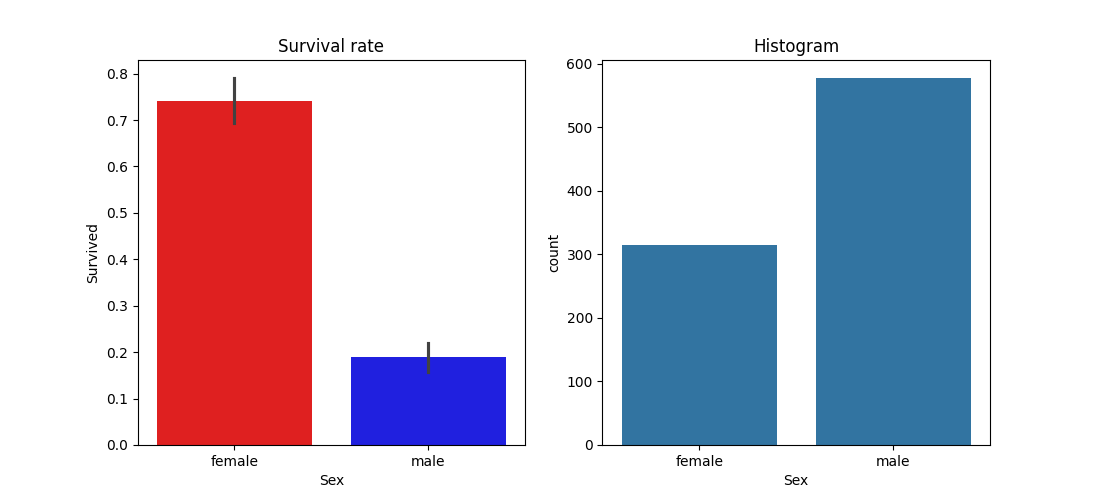
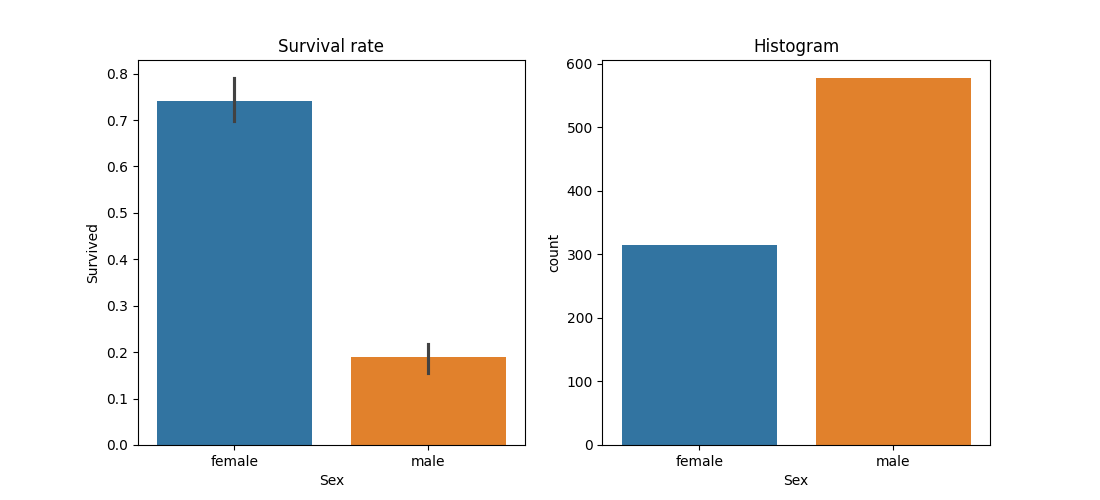
Random forest

Changed region(s): [[0.1236, 0.18, 0.4636, 0.9], [0.7418, 0.15, 0.8964, 0.9]]

diff --git a/Random Forests/main.py b/Random Forests/main.py
@@ -2,6 +2,12 @@ from fastai.imports import *
 import pandas as pd
 import os
 import seaborn as sns
+from numpy import random
+from sklearn.model_selection import train_test_split
+from sklearn.metrics import mean_absolute_error
+from sklearn.tree import DecisionTreeClassifier, export_graphviz
+import graphviz
+from sklearn.ensemble import RandomForestClassifier
 
 np.set_printoptions(linewidth=130)
 
@@ -41,7 +47,154 @@ palette=['red', 'blue', 'green', 'purple']
 fig,axs = plt.subplots(1,2, figsize=(11,5))
 
 # Barplot and countplot of the survival rate depending on the sex
-sns.barplot(data=df, y=dep, x="Sex", ax=axs[0], palette=palette).set(title="Survival rate")
-sns.countplot(data=df, x="Sex", ax=axs[1]).set(title="Histogram");
+sns.barplot(data=df, y=dep, x="Sex", ax=axs[0], hue="Sex").set(title="Survival rate")
+sns.countplot(data=df, x="Sex", ax=axs[1], hue="Sex").set(title="Histogram");
 
-plt.savefig("plot.png")
+# Save the plot
+# plt.savefig("plot.png")
+
+#-------------- Binary Split --------------#
+
+# Split the data into training and validation
+random.seed(42)
+trn_df,val_df = train_test_split(df, test_size=0.25)
+
+# Replace the categorical variables with their codes to better manipulate them
+trn_df[cats] = trn_df[cats].apply(lambda x: x.cat.codes)
+val_df[cats] = val_df[cats].apply(lambda x: x.cat.codes)
+
+# Creates the xs and y, which are the dependent and independent variables
+def xs_y(df):
+    xs = df[cats+conts].copy()
+    return xs,df[dep] if dep in df else None
+
+# Assigns the xs and y to the training and validation data
+trn_xs,trn_y = xs_y(trn_df)
+val_xs,val_y = xs_y(val_df)
+
+# Extremely simple model, where all the women survive and all the men die
+preds = val_xs.Sex==0
+
+# Gets the mean absolute error to test our simple model
+mae = mean_absolute_error(val_y, preds)
+
+# Some more graphs
+df_fare = trn_df[trn_df.LogFare>0]
+fig,axs = plt.subplots(1,2, figsize=(11,5))
+sns.boxenplot(data=df_fare, x=dep, y="LogFare", hue="Survived", ax=axs[0])
+sns.kdeplot(data=df_fare, x="LogFare", ax=axs[1])
+# plt.savefig("plot2.png")
+
+# Considering the observations, people with a higher fare are more likely to survive
+preds = val_xs.LogFare>2.7
+
+# Gets the mean absolute error to test our simple model
+mae = mean_absolute_error(val_y, preds)
+
+# Calculates the score for one side of the split
+def _side_score(side, y):
+    tot = side.sum()
+    if tot<=1: 
+        return 0
+    return y[side].std()*tot
+
+# Calculates the score for the split, called impurity
+def score(col, y, split):
+    lhs = col<=split
+    return (_side_score(lhs,y) + _side_score(~lhs,y))/len(y)
+
+# score = score(trn_xs["Sex"], trn_y, 0.5)
+# score = score(trn_xs["LogFare"], trn_y, 2.7)
+
+# Let's try to find the best split for any variable
+
+# Gets the unique values of the variable age
+nm = "Age"
+col = trn_xs[nm]
+unq = col.unique()
+unq.sort()
+
+# Calculates the best split for the variable age
+scores = np.array([score(col, trn_y, o) for o in unq if not np.isnan(o)])
+bestsplit = unq[scores.argmin()]
+
+# Calculates the best split for any column
+def min_col(df, nm):
+    col = df[nm]
+    y = df[dep]
+    unq = col.dropna().unique()
+    unq.sort()
+    scores = np.array([score(col, y, o) for o in unq if not np.isnan(o)])
+    idx = scores.argmin()
+    return unq[idx], scores[idx]
+
+# Calculates the best split for all the columns
+# cols = cats+conts
+# cols_scores = { nm:min_col(trn_df, nm) for nm in cols}
+
+#-------------- Decision Tree --------------#
+
+# Calculates the best split for all the columns
+# cols = cats+conts
+# cols_scores = { nm:min_col(trn_df, nm) for nm in cols }
+
+# # Considering that Sex is the best first split, we can remove it from the list and split the data in two
+# cols.remove('Sex')
+# ismale = trn_df.Sex == 1
+# males, females = trn_df[ismale], trn_df[~ismale]
+
+# # We calculate the best split for both males and females and so on, we create a decision tree
+# cols_scores_males = { nm:min_col(males, nm) for nm in cols }
+# cols_scores_females = { nm:min_col(females, nm) for nm in cols }
+
+# Let's automate the process of creating the decision tree
+m = DecisionTreeClassifier(max_leaf_nodes=4).fit(trn_xs, trn_y)
+
+# Draw the decision tree
+def draw_tree(t, df, size=10, ratio=0.6, precision=4, **kwargs):
+    s=export_graphviz(t, out_file="bigger_tree.dot", feature_names=df.columns, filled=True, rounded=True,
+                      special_characters=True, rotate=False, precision=precision, **kwargs)
+    return graphviz.Source(re.sub('Tree {', f'Tree {{ size={size}; ratio={ratio}', s))
+
+# draw_tree(m, trn_xs, size=10)
+
+# Another measure of impurity, used to create the above decision tree
+def gini(cond):
+    act = df.loc[cond, dep]
+    return 1 - act.mean()**2 - (1-act).mean()**2
+
+# Calculates the mean absolute error for the decision tree
+mae = mean_absolute_error(val_y, m.predict(val_xs))
+
+# Let's try to create a bigger tree
+m = DecisionTreeClassifier(min_samples_leaf=50)
+m.fit(trn_xs, trn_y)
+# draw_tree(m, trn_xs, size=12)
+
+# Calculates the mean absolute error for the decision tree
+mae = mean_absolute_error(val_y, m.predict(val_xs))
+
+#-------------- Random Forest --------------#
+
+# Creates a random tree from our data
+def get_tree(prop=0.75):
+    n = len(trn_y)
+    idxs = random.choice(n, int(n*prop)) # Randomly selects a subset of the data of size prop
+    return DecisionTreeClassifier(min_samples_leaf=5).fit(trn_xs.iloc[idxs], trn_y.iloc[idxs])
+
+# Creates a random forest from our data
+trees = [get_tree() for t in range(100)]
+
+all_probs = [t.predict(val_xs) for t in trees]
+avg_probs = np.stack(all_probs).mean(0)
+
+mae = mean_absolute_error(val_y, avg_probs)
+
+# Now with sklearn
+rf = RandomForestClassifier(100, min_samples_leaf=5)
+rf.fit(trn_xs, trn_y);
+mae = mean_absolute_error(val_y, rf.predict(val_xs))
+
+# Let's see the importance of each variable
+pd.DataFrame(dict(cols=trn_xs.columns, imp=m.feature_importances_)).plot('cols', 'imp', 'barh')
+# plt.savefig("plot3.png")
